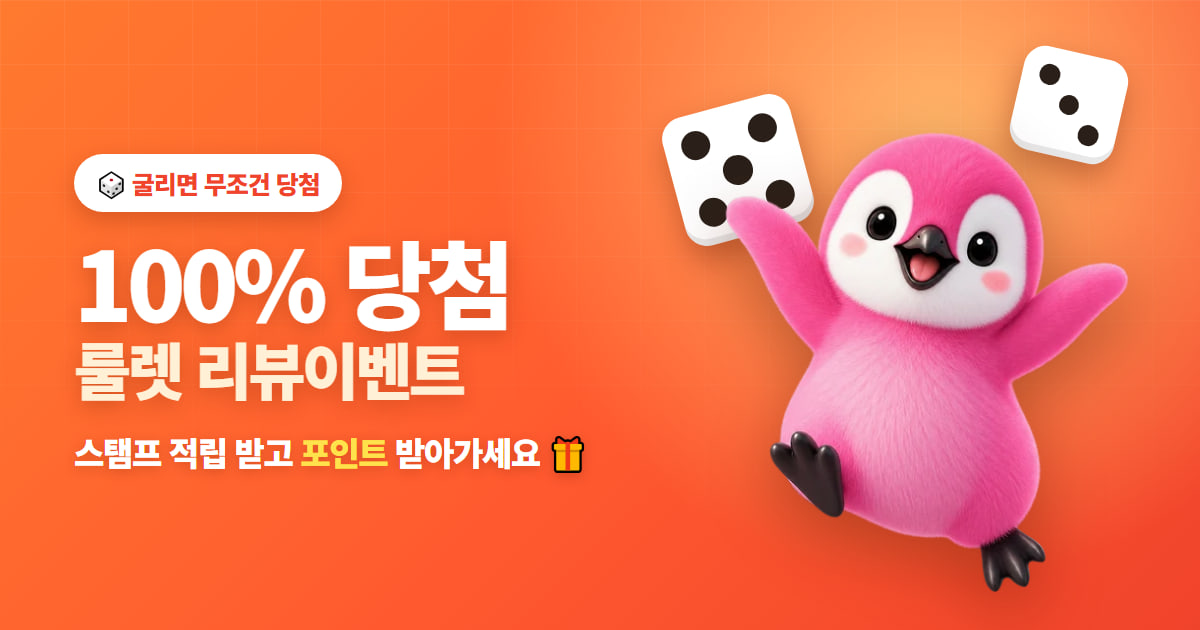
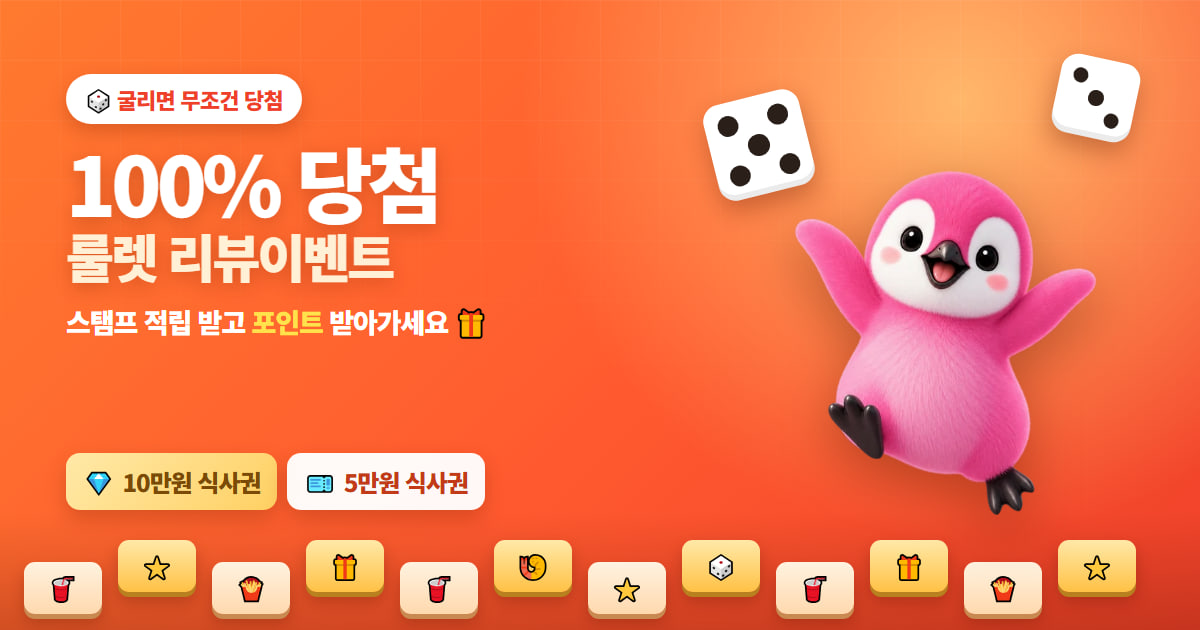
feat: 무료 플랜 제한(미션 3개·문자 직접발송) + 하단 링크 분리 + OG 이미지 개선
■ 무료 플랜 미션 3개 제한
설문·네이버는 고정으로 열고, 나머지 1개는 사장님이 관리자에서 고른다.
매장마다 주력 채널이 달라서(카카오맵/구글/인스타) 고르게 하고, 고객이 매번
고르면 리뷰가 여러 채널로 분산돼 순위에 불리하다.
- isMissionLocked(): m.premium 대신 플랜 기준으로 판정
- 게임 설정 탭에 세 번째 미션 선택 UI + '미션 전부 열기(문의)' 버튼
- startDiceMission 에도 동일 가드 — 화면 우회 직접 호출 차단
- 잠긴 미션 탭 시 문의 모달로 유도

■ 문자: 무료는 '문구 확인 → 직접 발송'만
- 무료: previewCrmMessage() 신설 — 실제 보낼 문구와 수신 대상 번호를 보여주고
  각각 복사. 수신 미동의자는 자동 제외하고 몇 명 빠졌는지 표기
- 무료: 자동 발송(bulkRechargeDice/bulkSendPromo) 버튼 자리를 문의로 대체
- 매장설정의 문자 템플릿 편집 카드는 무료 플랜에서 잠금 오버레이 처리
- 프리미엄: 기존대로 수정·자동 발송 전부 사용

■ 하단 비즈니스 문의
- '장사천재 김도겸 사이트' 1개 → 2개로 분리
  · 내 매장 살리기 챌린지 · 신청하기 → jangsamaker.vercel.app (강조 스타일)
  · 고객이 찾아오는 매장 만들기 · 관리받기 → jangsa-master.vercel.app
- 오픈카톡 링크 4곳 전부 open.kakao.com/me/jangsa_master 로 교체

■ OG 썸네일 개선
- 팽귄·주사위 축소, 하단에 지그재그 타일 트랙 추가
- 10만원/5만원 식사권 칩 노출로 '뭘 받는지' 즉시 보이게
- png 삭제하고 jpg 단일 운영 (112KB)

검증: 무료 3개만 개방(선택 변경 시 반영), 프리미엄 6개, 우회 호출 차단,
      문구 미리보기·복사, 템플릿 편집 잠금, 하단 링크 5종

diff --git a/index.html b/index.html
@@ -1267,14 +1267,17 @@ body.dark .dice-side-jp .dsj-item{background:linear-gradient(160deg,#4A3A18,#3A2
     const k1url=_p('kakaoUrl','https://litt.ly/jangsa.master');
     const k1label=_p('kakaoLabel','카카오톡 문의하기');
     const k1sub=_p('kakaoSub','litt.ly/jangsa.master');
-    const k2url=_p('openKakaoUrl','https://open.kakao.com/o/sMHU7wzi');
+    const k2url=_p('openKakaoUrl','https://open.kakao.com/me/jangsa_master');
     const k2label=_p('openKakaoLabel','오픈카카오 문의');
     const k2sub=_p('openKakaoSub','장사천재 김도겸 오픈채팅');
     const igUrl=_p('instaUrl','https://instagram.com/jangsa.master');
     const igLabel=_p('instaLabel','인스타그램');
     const igSub=_p('instaSub','instagram.com/jangsa.master');
+    const chUrl=_p('challengeUrl','https://jangsamaker.vercel.app/');
+    const chLabel=_p('challengeLabel','내 매장 살리기 챌린지 · 신청하기');
+    const chSub=_p('challengeSub','jangsamaker.vercel.app');
     const siteUrl=_p('siteUrl','https://jangsa-master.vercel.app/');
-    const siteLabel=_p('siteLabel','장사천재 김도겸 사이트');
+    const siteLabel=_p('siteLabel','고객이 찾아오는 매장 만들기 · 관리받기');
     const siteSub=_p('siteSub','jangsa-master.vercel.app');
     const footer=_p('footerCopy','© 2025 리뷰이벤트 플랫폼 by 장사천재 김도겸');
     const footerSub=_p('footerSub','사업자등록: 문의 시 제공');
@@ -1295,6 +1298,11 @@ body.dark .dice-side-jp .dsj-item{background:linear-gradient(160deg,#4A3A18,#3A2
        <div style="width:36px;height:36px;border-radius:10px;background:linear-gradient(135deg,#f58529,#dd2a7b,#8134af);display:flex;align-items:center;justify-content:center;font-size:18px;flex-shrink:0">📸</div>
        <div><div style="font-size:14px;font-weight:700;color:#fff">${igLabel}</div><div style="font-size:11px;color:rgba(255,255,255,0.4);margin-top:1px">${igSub}</div></div>
        <div style="margin-left:auto;color:rgba(255,255,255,0.3);font-size:16px">›</div>
+      </a>
+      <a href="${chUrl}" target="_blank" rel="noopener" style="display:flex;align-items:center;gap:12px;background:linear-gradient(135deg,rgba(255,107,0,.22),rgba(255,255,255,0.06));border:1px solid rgba(255,140,60,.45);border-radius:14px;padding:14px 18px;text-decoration:none">
+       <div style="width:36px;height:36px;border-radius:10px;background:linear-gradient(135deg,#FF8B42,#FF5A2F);display:flex;align-items:center;justify-content:center;font-size:18px;flex-shrink:0">🚀</div>
+       <div><div style="font-size:14px;font-weight:700;color:#fff">${chLabel}</div><div style="font-size:11px;color:rgba(255,255,255,0.45);margin-top:1px">${chSub}</div></div>
+       <div style="margin-left:auto;color:rgba(255,255,255,0.35);font-size:16px">›</div>
       </a>
       <a href="${siteUrl}" target="_blank" rel="noopener" style="display:flex;align-items:center;gap:12px;background:rgba(255,255,255,0.06);border:1px solid rgba(255,255,255,0.1);border-radius:14px;padding:14px 18px;text-decoration:none">
        <div style="width:36px;height:36px;border-radius:10px;background:#FF6B00;display:flex;align-items:center;justify-content:center;font-size:18px;flex-shrink:0">🌐</div>
@@ -3507,17 +3515,37 @@ function _diceMarkMissionDone(id,bonus){
   saveState();
   logEvent('mission_done',{mission:id,by:'dwell',bonus:bonus||0});
 }
+/* ── 무료 플랜 미션 제한 ──
+   무료는 미션 3개까지만 연다.
+     ① 만족도 설문   (고정 — 매장 진단 데이터의 핵심)
+     ② 네이버 리뷰   (고정 — 매출에 가장 직결)
+     ③ 그 외 1개     (사장님이 관리자에서 선택)
+   매장마다 주력 채널이 달라서(카카오맵 vs 구글 vs 인스타) 세 번째는 고르게 한다.
+   고객이 매번 고르게 하면 리뷰가 여러 채널로 분산돼 효과가 죽는다.
+   더 열고 싶으면 유료 전환 또는 문의로 유도한다. */
+const FREE_FIXED_MISSIONS=['survey','naver'];
+const FREE_MISSION_LIMIT=3;
+function freePickedMission(){
+  const cfg=STORE&&STORE.diceGame;
+  return (cfg&&cfg.freeMission)||'kakao';   // 기본 선택: 카카오맵
+}
+// 이 미션이 지금 플랜에서 잠겨 있는가
+function isMissionLocked(m){
+  if(isPremium())return false;                       // 프리미엄은 전부 개방
+  if(FREE_FIXED_MISSIONS.includes(m.id))return false; // 고정 2개
+  return m.id!==freePickedMission();                  // 사장님이 고른 1개만 개방
+}
 function openDiceMissions(){
   const missions=STORE.diceGame.missions||[];
   let nextFound=false;
   const html=missions.map(m=>{
     const done=_diceMissionDoneToday(m.id);
-    const locked=m.premium&&!isPremium();
+    const locked=isMissionLocked(m);
     const isNext=!done&&!locked&&!nextFound;
     if(isNext)nextFound=true;
     const _mIcons={naver:'🟢',kakao:'💛',clip:'🎬',google:'🔵',insta:'📸'};
     const icon=done?'✅':locked?'🔒':(m.verify==='internal'?'📝':(_mIcons[m.id]||'🎁'));
-    const sub=done?'오늘 완료했어요':locked?'사장님 플랜 업그레이드가 필요해요':(m.id==='survey'?'30초면 끝나요 · 가장 쉬워요':m.id==='clip'?'짧은 영상으로 남겨주세요':'문구를 만들어 드려요');
+    const sub=done?'오늘 완료했어요':locked?'지금은 잠겨 있어요 · 사장님께 문의':(m.id==='survey'?'30초면 끝나요 · 가장 쉬워요':m.id==='clip'?'짧은 영상으로 남겨주세요':'문구를 만들어 드려요');
     const click=done?'':locked?'showVipModal()':('startDiceMission(\''+m.id+'\')');
     return `<div class="dmission${isNext?' focus':''}${done?' done':''}${locked?' lock':''}" onclick="${click}">`+
       `<span class="dm-ic">${icon}</span><span class="dm-tx">${m.label}<small>${sub}</small></span>`+
@@ -3530,7 +3558,7 @@ function closeDiceMissions(){document.getElementById('dice-mission-overlay').sty
 function startDiceMission(id){
   const m=(STORE.diceGame.missions||[]).find(x=>x.id===id);
   if(!m)return;
-  if(m.premium&&!isPremium()){showVipModal();return;}
+  if(isMissionLocked(m)){showVipModal();return;}   // 화면을 우회해 직접 호출해도 막는다
   closeDiceMissions();
   if(m.verify==='internal'){_diceMissionActive=id;show('s-survey');return;}
   if(id==='clip'){openDiceDwell(id);return;} // 영상 미션은 문구 조립 없이 바로 체류시간 검증
@@ -4456,7 +4484,7 @@ function renderPlatform(){
         </div>
         <div>
           <div style="font-size:11px;font-weight:700;color:var(--t3);margin-bottom:4px">🔗 오픈카카오 — URL</div>
-          <input id="pc-k2url" value="${_pconf('openKakaoUrl','https://open.kakao.com/o/sMHU7wzi')}" style="width:100%;box-sizing:border-box;padding:9px 12px;border:1.5px solid var(--border);border-radius:10px;font-size:13px;background:var(--white);color:var(--t1);font-family:Noto Sans KR,sans-serif">
+          <input id="pc-k2url" value="${_pconf('openKakaoUrl','https://open.kakao.com/me/jangsa_master')}" style="width:100%;box-sizing:border-box;padding:9px 12px;border:1.5px solid var(--border);border-radius:10px;font-size:13px;background:var(--white);color:var(--t1);font-family:Noto Sans KR,sans-serif">
         </div>
         <div>
           <div style="font-size:11px;font-weight:700;color:var(--t3);margin-bottom:4px">🔗 오픈카카오 — 서브텍스트</div>
@@ -7250,12 +7278,19 @@ function renderCustomersTab(el){
     <div id="bulk-action-bar" style="display:none;margin:0 16px 10px;padding:12px 14px;background:var(--blue-light);border-radius:12px;border:1.5px solid var(--blue)">
       <div style="font-size:13px;font-weight:700;color:var(--blue);margin-bottom:8px" id="bulk-count-label">0명 선택됨</div>
       <div style="display:flex;flex-direction:column;gap:8px">
-        <button onclick="${isPremium()?'bulkRechargeDice(1)':'showVipModal()'}" class="btn btn-sm" style="background:linear-gradient(160deg,#FFC46B,#FF8B42);color:#fff;font-weight:800;box-shadow:0 3px 10px -3px rgba(255,139,66,.6)">🎲 주사위 1개 충전 + 알림 문자${isPremium()?'':' 👑'}</button>
+        ${isPremium()?`
+        <button onclick="bulkRechargeDice(1)" class="btn btn-sm" style="background:linear-gradient(160deg,#FFC46B,#FF8B42);color:#fff;font-weight:800;box-shadow:0 3px 10px -3px rgba(255,139,66,.6)">🎲 주사위 1개 충전 + 알림 문자</button>
         <div style="display:flex;gap:8px;flex-wrap:wrap">
-          <button onclick="${isPremium()?'bulkSendPromo()':'showVipModal()'}" class="btn btn-light btn-sm">📢 매장 이벤트 문자</button>
+          <button onclick="bulkSendPromo()" class="btn btn-light btn-sm">📢 매장 이벤트 문자</button>
           <button onclick="bulkCopyMessages()" class="btn btn-light btn-sm">📋 문구 복사</button>
         </div>
         <div style="font-size:11px;color:var(--t3);line-height:1.6">💡 주사위를 굴리려면 리뷰 미션을 해야 해서, 충전 문자 한 통이 <b>재방문 + 리뷰</b>로 이어져요. 최근 ${STORE.diceRechargeDays||7}일 내 충전한 고객은 자동으로 제외됩니다.</div>
+        `:`
+        <!-- 무료 플랜: 자동 발송은 잠그고 '문구 확인 → 직접 발송'만 연다 -->
+        <button onclick="previewCrmMessage()" class="btn btn-sm" style="background:var(--blue);color:#fff;font-weight:800">📋 보낼 문구 확인하고 복사하기</button>
+        <button onclick="showVipModal()" class="btn btn-light btn-sm" style="color:var(--t3)">📢 자동 발송·문구 수정 👑</button>
+        <div style="font-size:11px;color:var(--t3);line-height:1.6">💡 무료 플랜은 <b>문구를 복사해 직접 보내는 방식</b>이에요. 문구를 고치거나 앱에서 바로 발송하려면 문의해주세요.</div>
+        `}
       </div>
     </div>
 
@@ -7412,6 +7447,44 @@ function adSendGuard(users){
 // 매장이 직접 등록한 수신거부 연락처 (미등록 시 광고 문자 발송을 막는다)
 function storeOptOut(){return (STORE.profile&&STORE.profile.optOutContact||'').trim();}
 
+/* 무료 플랜 — 보낼 문구를 미리 보여주고 복사만 시킨다.
+   실제 발송(sms: 자동 실행)과 문구 수정은 프리미엄. */
+function previewCrmMessage(){
+  const users=getSelectedUsers();
+  if(!users.length){toast('선택된 고객이 없습니다');return;}
+  const {ok}=filterConsentedForAd(users);
+  const body=_crmFill((STORE.crmTemplates&&STORE.crmTemplates.dice)||'',null,{dice:1});
+  const phones=ok.map(u=>u.phone).join(', ');
+  if(document.getElementById('crm-preview-overlay'))return;
+  const m=document.createElement('div');
+  m.id='crm-preview-overlay';
+  m.style.cssText='position:fixed;inset:0;z-index:9300;display:flex;align-items:flex-end;background:rgba(0,0,0,.55)';
+  m.innerHTML=`<div style="width:100%;background:var(--white);border-radius:24px 24px 0 0;padding:20px 18px 32px;max-height:88vh;overflow-y:auto">
+    <div style="font-size:17px;font-weight:900;color:var(--t1);margin-bottom:4px">📋 이 문구를 보내시면 돼요</div>
+    <div style="font-size:12px;color:var(--t3);line-height:1.7;margin-bottom:14px">
+      아래 문구와 번호를 복사해서 <b>문자 앱에서 직접</b> 보내주세요.
+      ${ok.length<users.length?`<br><span style="color:var(--red)">※ ${users.length-ok.length}명은 마케팅 수신 미동의라 제외했어요</span>`:''}
+    </div>
+    <div style="font-size:12px;font-weight:800;color:var(--t2);margin-bottom:6px">보낼 문구</div>
+    <div style="background:var(--bg);border-radius:12px;padding:13px 14px;font-size:13px;line-height:1.8;color:var(--t1);white-space:pre-wrap;margin-bottom:8px">${(body||'(문구가 비어 있어요)').replace(/</g,'&lt;')}</div>
+    <button class="btn btn-blue btn-sm" onclick="_copyText(document.getElementById('crm-preview-overlay').dataset.body,'문구를 복사했어요 📋')">문구 복사</button>
+    <div style="font-size:12px;font-weight:800;color:var(--t2);margin:16px 0 6px">받는 사람 ${ok.length.toLocaleString()}명</div>
+    <div style="background:var(--bg);border-radius:12px;padding:12px 14px;font-size:12px;line-height:1.7;color:var(--t2);max-height:120px;overflow-y:auto;word-break:break-all;margin-bottom:8px">${phones||'(수신 동의 고객이 없어요)'}</div>
+    <button class="btn btn-light btn-sm" onclick="_copyText(document.getElementById('crm-preview-overlay').dataset.phones,'번호를 복사했어요 📋')">번호 복사</button>
+    <div style="background:linear-gradient(160deg,#FFF3D2,#FCE1A0);border-radius:12px;padding:12px 14px;font-size:11.5px;color:#7A4A06;line-height:1.75;margin-top:16px">
+      👑 <b>문구를 직접 고치거나</b>, 앱에서 <b>바로 발송</b>하고 싶으시면 문의해주세요.
+    </div>
+    <button class="btn btn-light" style="margin-top:10px" onclick="document.getElementById('crm-preview-overlay').remove()">닫기</button>
+  </div>`;
+  m.dataset.body=body; m.dataset.phones=phones;
+  document.body.appendChild(m);
+  m.addEventListener('click',e=>{if(e.target===m)m.remove();});
+}
+function _copyText(t,msg){
+  if(!t){toast('복사할 내용이 없어요');return;}
+  if(navigator.clipboard)navigator.clipboard.writeText(t).then(()=>toast(msg)).catch(()=>fallbackCopyText(t));
+  else fallbackCopyText(t);
+}
 function bulkCopyMessages(){
   const users=getSelectedUsers();
   if(!users.length){toast('선택된 고객이 없습니다');return;}
@@ -7920,7 +7993,7 @@ function isPremium(){return !!(_platformConfig.forceAllPremium||(STORE&&STORE.pr
       매장 앞에 붙여둔 QR이 손님 앞에서 죽으면 사장님이 곤란해지고,
       그동안 쌓이던 연락처·리뷰 데이터도 끊긴다. */
 const ACCESS_DAYS=30, ACCESS_WARN_DAYS=7;
-const OWNER_KAKAO_URL='https://open.kakao.com/o/sMHU7wzi';
+const OWNER_KAKAO_URL='https://open.kakao.com/me/jangsa_master';
 function _accessStart(){
   if(!STORE)return today();
   if(STORE.openedAt)return STORE.openedAt;
@@ -8095,7 +8168,7 @@ function showVipModal(){
       </div>
     `).join('')}
     <button id="vip-cta-btn" onclick="(()=>{const h=this.getAttribute('data-href');if(h)window.open(h,'_blank');})()" data-href="https://litt.ly/jangsa.master" style="display:flex;align-items:center;justify-content:center;gap:8px;margin-top:6px;padding:15px;background:#FEE500;border-radius:14px;font-size:15px;font-weight:800;color:#191f28;text-decoration:none;width:100%;border:none;cursor:pointer;font-family:Noto Sans KR,sans-serif;box-shadow:0 4px 14px rgba(254,229,0,.35)">💬 요금제를 선택 후 문의하기</button>
-    <a href="https://open.kakao.com/o/sMHU7wzi" target="_blank" rel="noopener" style="display:flex;align-items:center;justify-content:center;gap:8px;margin-top:8px;padding:13px;background:var(--bg);border:1.5px solid var(--border);border-radius:14px;font-size:13px;font-weight:700;color:var(--t1);text-decoration:none">🔗 오픈카카오로 문의하기</a>
+    <a href="https://open.kakao.com/me/jangsa_master" target="_blank" rel="noopener" style="display:flex;align-items:center;justify-content:center;gap:8px;margin-top:8px;padding:13px;background:var(--bg);border:1.5px solid var(--border);border-radius:14px;font-size:13px;font-weight:700;color:var(--t1);text-decoration:none">🔗 오픈카카오로 문의하기</a>
     <button onclick="document.getElementById('vip-modal-overlay').remove()" style="display:block;width:100%;margin-top:14px;padding:12px;background:none;border:none;font-size:14px;color:var(--t3);cursor:pointer;font-family:Noto Sans KR,sans-serif">닫기</button>
   </div>`;
   document.body.appendChild(m);
@@ -8275,6 +8348,14 @@ function renderAdmin(tab){
   }
 }
 
+function setFreeMission(id){
+  if(!STORE.diceGame)return;
+  STORE.diceGame.freeMission=id;
+  saveState();
+  renderRouletteAdmin(document.getElementById('admin-body'));
+  const m=(STORE.diceGame.missions||[]).find(x=>x.id===id);
+  toast('🎯 '+((m&&m.label)||id)+' 미션을 열었어요');
+}
 function renderRouletteAdmin(el){
   if(STORE.setupChecklist&&!STORE.setupChecklist.gameConfirmed){STORE.setupChecklist.gameConfirmed=true;saveState();}
   const total=STORE.prizes.reduce((a,p)=>a+(+p.prob||0),0);
@@ -8282,6 +8363,37 @@ function renderRouletteAdmin(el){
   const lastIdx=STORE.prizes.length-1;
   const gm=STORE.gameMode||'roulette';
   el.innerHTML=`
+    ${isPremium()?'':`
+    <div class="card card-pad" style="margin-bottom:12px;border-color:#FF8B42">
+      <div style="font-size:14px;font-weight:700;color:var(--t1);margin-bottom:4px">🎯 리뷰 미션 선택 <span style="font-size:11px;color:var(--t4);font-weight:600">무료 플랜 · ${FREE_MISSION_LIMIT}개</span></div>
+      <div style="font-size:12px;color:var(--t3);line-height:1.7;margin-bottom:12px">
+        고객이 주사위를 받는 방법이에요. 무료 플랜은 <b>설문 + 네이버</b>가 기본으로 열려 있고,
+        <b>나머지 중 하나</b>를 고르실 수 있어요.
+      </div>
+      <div style="display:flex;gap:6px;margin-bottom:12px">
+        ${FREE_FIXED_MISSIONS.map(id=>{
+          const m=(STORE.diceGame.missions||[]).find(x=>x.id===id);
+          return `<div style="flex:1;background:var(--green-light);border:1.5px solid var(--green);border-radius:11px;padding:10px 8px;text-align:center">
+            <div style="font-size:12.5px;font-weight:800;color:#00a868">${m?m.label:id}</div>
+            <div style="font-size:10px;color:#0b7a4a;margin-top:2px">항상 열림</div></div>`;
+        }).join('')}
+      </div>
+      <div style="font-size:12px;font-weight:700;color:var(--t2);margin-bottom:7px">세 번째 미션을 골라주세요</div>
+      <div style="display:flex;gap:6px;flex-wrap:wrap">
+        ${(STORE.diceGame.missions||[]).filter(m=>!FREE_FIXED_MISSIONS.includes(m.id)).map(m=>{
+          const on=freePickedMission()===m.id;
+          return `<button onclick="setFreeMission('${m.id}')" style="flex:1;min-width:100px;padding:11px 8px;border-radius:11px;cursor:pointer;font-family:inherit;
+            border:2px solid ${on?'#FF8B42':'var(--border)'};background:${on?'rgba(255,139,66,.1)':'var(--white)'}">
+            <div style="font-size:12.5px;font-weight:800;color:${on?'#B5551A':'var(--t1)'}">${on?'✓ ':''}${m.label}</div>
+          </button>`;
+        }).join('')}
+      </div>
+      <div style="margin-top:12px;background:var(--bg);border-radius:10px;padding:11px 12px;font-size:11.5px;color:var(--t3);line-height:1.7">
+        💡 여러 채널을 한꺼번에 열면 리뷰가 흩어져서 오히려 효과가 떨어져요.
+        <b>한 채널에 몰아주는 게</b> 순위에 유리합니다.
+      </div>
+      <button class="btn btn-sm" style="margin-top:10px;background:linear-gradient(160deg,#FFC46B,#FF8B42);color:#fff;font-weight:800" onclick="showVipModal()">🔓 미션 전부 열기 (문의)</button>
+    </div>`}
     <div class="card card-pad" style="border-color:var(--blue)">
       <div style="font-size:14px;font-weight:700;color:var(--t1);margin-bottom:10px">🎮 네이버 이벤트 게임 방식</div>
       <div onclick="setGameMode('dice')" style="padding:14px 12px;border-radius:14px;border:2px solid ${gm==='dice'?'var(--blue)':'var(--border)'};background:${gm==='dice'?'var(--blue-light)':'var(--white)'};cursor:pointer;position:relative;display:flex;align-items:center;gap:12px;margin-bottom:10px">
@@ -9150,8 +9262,14 @@ function renderSettingsAdmin(el){
       <button class="btn btn-blue" onclick="saveCouponPolicy()">쿠폰 정책 저장</button>
     </div>
 
-    <div class="card card-pad" style="border-color:#FF8B42">
-      <div style="font-size:14px;font-weight:700;color:var(--t1);margin-bottom:4px">✉ 재접촉 문자 템플릿 2종</div>
+    <div class="card card-pad" style="border-color:#FF8B42${isPremium()?'':';position:relative'}">
+      ${isPremium()?'':`<div onclick="showVipModal()" style="position:absolute;inset:0;z-index:3;border-radius:16px;background:rgba(255,255,255,.72);backdrop-filter:blur(2.5px);display:flex;flex-direction:column;align-items:center;justify-content:center;cursor:pointer;padding:18px;text-align:center">
+        <div style="font-size:30px">🔒</div>
+        <div style="font-size:14px;font-weight:900;color:var(--t1);margin-top:6px">문구 수정은 프리미엄이에요</div>
+        <div style="font-size:11.5px;color:var(--t3);margin-top:5px;line-height:1.7">무료 플랜은 <b>고객·연락처 탭</b>에서<br>기본 문구를 확인하고 복사해 보내실 수 있어요</div>
+        <div style="margin-top:10px;background:#FEE500;color:#191f28;border-radius:10px;padding:9px 16px;font-size:12.5px;font-weight:800">💬 문의하기</div>
+      </div>`}
+      <div style="font-size:14px;font-weight:700;color:var(--t1);margin-bottom:4px">✉ 재접촉 문자 템플릿 2종 ${isPremium()?'':'👑'}</div>
       <div style="font-size:12px;color:var(--t3);margin-bottom:12px;line-height:1.65">
         고객·연락처 탭에서 고객을 선택한 뒤 사용하는 문자 양식이에요.<br>
         사용 변수: <b>{고객명} {매장명} {링크} {주사위}</b></div>
